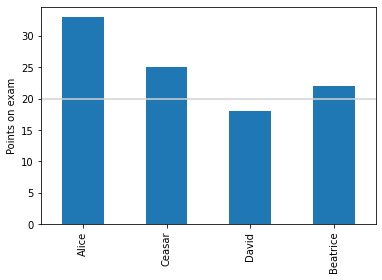
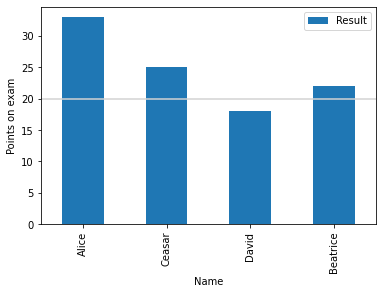
Update documentation

diff --git a/searchindex.js b/searchindex.js
@@ -1,1 +1,1 @@
-Search.setIndex({docnames:["docs/agent","docs/installation","docs/intro","docs/jupyter","docs/math","docs/ode","docs/pandas","docs/project","docs/python","docs/references"],envversion:{"sphinx.domains.c":2,"sphinx.domains.changeset":1,"sphinx.domains.citation":1,"sphinx.domains.cpp":3,"sphinx.domains.index":1,"sphinx.domains.javascript":2,"sphinx.domains.math":2,"sphinx.domains.python":2,"sphinx.domains.rst":2,"sphinx.domains.std":2,"sphinx.ext.intersphinx":1,"sphinxcontrib.bibtex":7,sphinx:56},filenames:["docs/agent.ipynb","docs/installation.md","docs/intro.md","docs/jupyter.ipynb","docs/math.md","docs/ode.ipynb","docs/pandas.ipynb","docs/project.md","docs/python.ipynb","docs/references.md"],objects:{},objnames:{},objtypes:{},terms:{"0000":0,"000000":6,"0001":5,"0002":8,"00233":9,"018":9,"07196":9,"0996":8,"100":[0,5,8],"1000":[5,8],"101":0,"1021":9,"1038":9,"1111":9,"1200":5,"130":5,"1415":8,"145":9,"1457":8,"146":[],"1472":[],"162":8,"1751":9,"1960":4,"1998":9,"1pigvvn":9,"200":5,"2000":5,"2009":9,"2010":9,"2011":9,"2013":9,"2016":9,"2018":9,"20210722":8,"20210802":8,"2022":2,"205":8,"2899":[],"2903865095":[],"2980":[],"3000":5,"3016":[],"3058":[],"3272":[],"3432":0,"3479":[],"350853":6,"3620":[],"3648":[],"365":5,"3671":[],"3736":0,"3952":[],"4122":[],"4179":[],"4200":[],"4224":[],"4232":[],"4488":[],"4744":[],"4760":[],"4840":[],"4968":0,"500":5,"5000":[0,5,8],"500000":6,"510":8,"515":[],"5160":[],"520":[],"5224":[],"536":[],"5376":0,"5489":[],"555":[],"563":9,"5631":[],"572":9,"584":9,"5h8mb6gs32nbvf3w8cyqwrhm0000gn":[],"600":5,"6000":[],"726":[],"7413":[],"7729":9,"7915":9,"800":5,"8068":[],"9190":8,"9999":8,"case":[5,8],"class":[0,4,5,6],"default":[1,5,8],"export":6,"f\u00f6r":7,"final":[0,2,3,5],"float":8,"function":[0,3,5,6],"import":[0,2,3,4,5,6],"int":[0,8],"long":7,"new":[1,7,8],"return":[0,5,8],"short":[5,7,8],"static":5,"super":0,"true":[0,5,6,8],"try":7,"v\u00e4gledn":7,"var":[],"while":[5,7],Axes:8,For:[5,8],Not:8,ODEs:2,One:[2,8],The:[0,1,2,4,5,6,7,8],Their:7,There:[0,4,5,8],These:[0,8],With:5,__init__:[0,5,8],a_list:8,abil:7,abm:[0,2,4],about:8,abov:[5,8],academia:7,access:[2,8],accomplish:[8,9],accord:[5,7,8],accumul:[0,5,8],act:[0,4],action:[0,7],activ:[1,7],adapt:4,add:0,addit:[1,5,6,8],adopt:[2,8],advanc:4,affect:4,after:[0,8],agent:[2,4,7,8],agent_df:0,agent_idx:0,agent_report:0,agent_wealth:0,agentid:0,air:5,alc_with_lowest_bp:8,alcohol:8,algorithm:8,alic:6,align:[4,5,8],alik:7,all:[0,2,4,7,8],allow:[0,1,2,3,5,6],almost:8,alpha:[4,5],alreadi:[7,8],also:[0,3,4,5,6,8],altern:[5,8],alwai:8,amount:[7,8],anaconda:1,analysi:[0,6,8,9],analyt:8,andersen:[7,9],ani:[2,7],anlys:6,anoth:5,appeal:4,appear:[4,5],append:5,applic:[3,4],approach:[2,4,5],approx:5,approxim:[5,7],arang:3,area:[2,8],arg:5,arguabl:2,argument:[5,8],around:[0,4],arrai:5,arrang:8,artist:8,as13:[2,7,9],ascend:6,associ:[5,8],asterisk:1,attribut:[0,8],author:[2,8],auto:8,automat:[6,8],autonom:0,autosc:8,avail:[2,3,5,8],averag:6,axes:5,axhlin:[3,6],axi:8,b_dict:8,back:4,bai98:[4,7,9],bailei:[4,7,9],bar:[6,8],barcontain:8,barh:8,barri:7,barstack:8,base:[1,2,4,7,8],basic:[2,4,5,8],bb1220:2,beatric:6,becom:[2,5],been:8,begin:[0,1,4,5],behav:[7,8],behavior:0,behaviour:4,belong:0,below:[0,3,8],benefit:[6,8],best:2,beta:[4,5],better:[2,5],between:[7,8],big:[0,5],bin:[0,8],biochem:[7,9],biolog:[4,5,7],biologi:[2,9],biologist:7,biotech:9,biotechnolog:[2,4,9],bit:1,blood:7,blueprint:8,bodi:7,boil:8,bone:7,book:[2,7,8],bool:8,bordel:9,both:[0,3,4],bottom:8,bp9701269:9,browser:[1,3],build:[0,4],built:[6,8],bygg:9,c6h11oh:8,c6h5:8,calcul:[0,8],call:[5,7],can:[0,1,3,4,5,6,7,8],cannot:8,canva:2,capit:8,catalyst:7,catalyz:7,categori:0,cb1020:2,cbn11:[4,7,9],ceasar:6,cell:[0,1,7,9],cellmat:0,cellular:7,celsiu:8,center:8,central:5,certain:[5,6],certifi:1,ch2oh:8,ch3:8,ch3oh:8,chanc:8,chang:[3,5],chapter:7,chart:8,checkpoint:3,chemic:[7,8],choh:8,choic:[0,2,5,8,9],choos:2,chosen:8,circ:5,circl:5,clean:6,clear:[4,8],cleft:7,code:[1,2,8],coeffici:[0,4],coher:8,collect:[4,5],collector:0,color:[0,3,6,8],column:[0,6,8],com:9,combin:[3,8],come:[1,3,5],comma:6,command:[1,3],comment:3,common:[7,8],commun:[7,8],compar:[3,8],comparison:[5,8],compart:7,complex:[4,7,8],compon:7,compos:4,compound:7,comput:[0,1,4,5,8,9],compute_gini:0,concern:[5,8],conda:1,conduct:[2,5],conjunct:8,connect:7,consid:5,constant:5,construct:6,constructor:8,contain:[0,1,3,5,7,8],contrast:7,contribut:[2,8],control:6,conveni:[5,8],convent:[3,8],convert:[0,3],copi:3,core:9,cornerston:4,correspond:[5,6],cost:5,could:7,count:[6,8],counterpart:7,cours:[2,5,7],creat:[0,1,2,4,5,8],creation:8,cross:[0,7],csv:6,ctrl:3,cumul:8,current:0,cursor:3,cvijov:[4,7,9],cyclohexanol:8,d2u_dx2:5,d41586:9,dai:5,damp:5,dash:3,data1:8,data2:8,data:9,datacollect:0,datacollector:0,datafram:0,datapoint:8,dataset:8,date:[2,4],dator:9,david:6,death:5,decis:[2,4],decreas:5,deepen:2,def:[0,5,8],defin:[0,5,8],degre:8,delivar:2,delta:[4,5],denot:5,densiti:8,depend:[1,3],depict:5,deriv:[0,3,5],describ:[4,5,6,8],descript:[2,8],design:7,detail:[3,8],determin:[0,7],develop:[7,8],deviat:8,diagon:0,dictionari:8,dictonari:[6,8],did:5,diff:8,differ:[0,2,7,8],differenti:[2,4],difficult:4,diffus:[5,7],dimens:8,dimension:[5,8],direct:8,disciplinari:7,discret:5,discuss:2,diseas:[4,7],displai:[6,8],disposit:7,distinguish:7,distribut:[0,8],divid:[5,8],doan:8,doc:[1,2],document:[2,3],doi:9,doing:[3,5],dot:8,draw:8,drawn:8,drive:2,dropbox:2,dtype:[6,8],due:5,dydt:5,dynam:[4,5],each:[0,2,8],earli:4,eat:7,ecosystem:7,edg:8,edit:[2,3,9],effect:8,effici:8,either:8,element:[3,6,7,8],elementari:3,els:7,empti:[0,8],enabl:[1,5,7,8],encapsul:8,end:[2,4,5,8],engin:[2,5,6,7,8,9],enter:[0,1,3],entiti:0,enumer:[0,8],env:1,environ:[1,4,7],enzym:7,epidemiolog:4,equal:[4,5,6,8],equat:[2,3,4],equip:8,erl:9,error:5,etc:[3,6,8],ethanol:8,euler_step:5,eva:9,even:8,everi:[0,2,5,7,8],everyth:[7,8],evid:5,evolut:5,exact:5,exam:6,examin:6,exampl:[2,5,8],excel:[6,7],except:8,exchang:7,excitatori:7,exclud:8,execut:[1,8],exemplifi:5,exhaust:2,exlibrisgroup:9,exp:[5,8],expect:[7,8],experi:[2,8],explain:[3,4],expos:0,extens:[3,8],extract:0,factor:8,factori:9,fals:[0,8],famili:5,famou:7,far:[2,3],farg:5,fast:8,faster:[7,8],favorit:8,feel:[7,8],few:1,field:4,fig:[3,5],fignam:8,figsiz:[3,5],figur:[3,5],file:[3,6,8],fill:[2,8],filter:8,final_wealth_df:0,find:[0,5,7],first:[0,5,6,7,8],fix:8,flexibl:8,float64:6,focal:2,focu:[2,4],folder:2,follow:[1,3,7,8],forest:4,forg:1,form:[2,3,7,8],format:[2,3,6,8],former:4,formula:8,fourth:5,frac:[0,4,5,8],fraction:8,frame:5,frame_numb:5,framework:0,free:[7,8],friction:5,from:[0,1,2,3,4,5,7,8],funcanim:5,further:[3,4],futur:[2,7,9],gamma:[4,5],gaussian:8,gca:[0,3,5,6,8],gener:[0,2,5,7,8],genrer:7,geometr:8,geometri:8,get:[1,3,5,8],get_agent_vars_datafram:0,get_cell_list_cont:0,get_model_vars_datafram:0,get_neighborhood:0,gini:0,github:9,give:[0,8],give_monei:0,given:[2,5,8],gledn:9,global:0,good:[2,5,7,8],googl:2,govern:0,gradual:5,granular:4,great:8,greater:[5,8],grid:[0,5,8],ground:7,group:[0,2,7],growth:5,guid:7,guidelin:2,half:8,handl:[0,6],harmon:5,has:[0,5,6,7,8],have:[2,3,7,8],head:[0,6],heattransferwal:5,height:[0,8],herod:[2,7,9],heurist:4,hierarch:2,high:8,higher:5,highli:8,hist2d:8,hist:[0,8],histogram:8,histogram_bin_edg:8,histtyp:8,hiv:7,hold:0,horizont:8,host:9,howev:[2,4,5,8],html:1,http:[1,9],human:3,idea:8,ident:8,identifi:5,idxmax:0,ignor:8,iii:2,illustr:[4,5],imagin:8,implement:[0,2,3,5,8],includ:[0,1,3,7,8],include_cent:0,increas:[0,4,5],increment:8,independ:8,index:8,indic:[0,1,4],indispens:8,individu:[0,2,4,8],industri:[4,7,9],infect:7,infecti:4,inform:7,inhibitori:7,initi:5,ink:7,input:8,inspir:[4,7],instanc:[4,8],instanti:0,instead:8,integ:[0,8],integr:[5,8],intel:8,interact:[0,1,4,5,7],interest:7,interfac:[0,3],intermedi:5,interneuron:7,interpret:8,interv:[3,5],introduc:[3,5,7,8],introduct:[4,7,8,9],intuit:[2,8],invest:7,invit:[5,8],involv:5,ipykernel_51278:[],ipykernel_57799:[],ipykernel_57878:[],ipynb:3,isol:8,isopropanol:8,item:8,its:[0,3,5,7,8],itself:7,jake:[8,9],jakevdp:9,jame:9,javascript:0,jeffrei:9,jen:9,json:3,jupyt:[1,8,9],jupyterlab:1,k_1:5,k_2:5,k_3:5,k_4:5,keep:2,kei:[3,4,5,8],kept:8,kernel:8,keyword:8,kind:6,kinet:7,knowhow:7,knowledg:5,known:[5,8],kth:[2,9],kurslitteratur:9,kvalitet:9,kwarg:8,label:[5,8],lambda:5,landscap:0,languag:2,larg:[1,7,8],last:[0,8],latent:7,latest:1,launch:0,ldot:0,lead:7,leader:2,leadership:2,learn:[4,7],least:2,leav:3,left:8,legend:[5,8],len:[0,8],length:8,leq:[0,5],less:[5,8],let:[0,5,8],level:[0,7],librari:8,life:7,lightgrei:6,like:[6,7,8],limit:[2,4,5,6,7],limt:0,line2d:5,line:[1,3,5,6,8],linear:5,lineplot:8,linewidth:[3,8],link:3,linspac:5,linux:[1,8],list:[0,1,2,3,6,8],live:7,load:2,locat:8,log:[2,8],logic:8,loop:8,lotka:[4,5],lotka_volterra:5,lower:8,lowest:8,lowest_bp:8,maco:[1,8],macroscop:4,made:[2,4,5,8],magnitud:8,mai:[3,4,5,7,8],main:4,make:[2,3,4,5,7],makinng:4,mammal:7,manag:[0,1],mani:7,manipul:8,manner:3,mapl:[2,9],marija:9,mark:[1,2],markdown:3,mask:8,match:8,materi:[2,7],math:8,mathbf:5,mathemat:[2,3,5,7,8,9],matlab:[2,9],matmul:8,matplotlib:[0,1,3,5,6,8],matric:8,matrix:8,max:[0,6,8],max_wealth:0,maximum:0,mean:[2,5,6,8],mechan:5,mediat:7,medium:5,meet:2,member:[2,4,5],membership:8,membran:7,mentor:2,merg:[3,6],mesa:[1,8],metabol:7,metal:7,methanol:8,method:[0,2,3,6,8],metric:0,microbi:9,microscop:4,microsoft:[2,6],mid:8,min:[5,6,8],miniconda:1,minim:1,minor:2,minut:2,mixtur:7,mkl:8,mode:3,model:[2,7,8,9],model_df:0,model_report:0,moder:7,modern:4,modifi:1,modul:[0,3,6],modulenotfounderror:[],molecul:7,moneyag:0,moneymodel:0,moor:0,more:[3,4,5,8],most:[2,4,5,6,8],move:[0,9],move_ag:0,movement:7,much:7,mulitpl:8,multi:[2,8],multigrid:0,multipl:[0,1,8],multistep:7,must:8,myenv:1,name:[1,2,4,5,6,8],natur:[4,5,8,9],nbin:8,ndarrai:8,need:[2,5,7,8],neuron:7,neurotransmitt:7,never:8,new_posit:0,newtonian:5,nielsen:9,non:[0,8],none:8,nonliv:7,nontrivi:5,nonzero:0,normal:[7,8],note:8,notebook:[1,5,8,9],nov:[],now:1,num:5,num_ag:0,number:[0,1,4,8],number_el:5,numer:[4,8],numpi:[1,3,5,8],object:[5,6],observ:7,obtain:[2,5],obviou:4,obvious:8,occupi:7,occur:[0,7],och:9,odeint:5,offer:8,offic:2,omnipres:7,onc:7,one:[0,1,2,3,5,8],one_agent_wealth_df:0,onedr:2,ones:[5,8],onli:[1,5,7,8],open:[1,8],openmp:8,opportun:[5,9],optim:8,option:8,orbit:5,order:[0,5,8],ordinari:2,org:9,organ:[0,3,7],orient:5,oscil:5,other:[0,1,3,7,8],our:[0,5,7],out:[7,8],outcom:0,outlier:8,outsid:2,over:[5,8],overal:[0,7],overemphas:8,overleaf:2,packag:1,page:2,panda:[0,8],paragraph:3,paramet:[0,4,5,8],parametr:5,parasit:7,part:2,partial:5,particip:2,particl:[5,7],particular:[3,8],pass:[5,6,8],past:[3,9],patch:8,patches0:8,patches1:8,path_to_fil:6,pdf:[2,8],peer:2,per18:[8,9],per:[2,8],perform:[5,6,8],period:[5,7],perkel:9,permalink:9,permeas:7,person:2,phase:5,phenomena:[2,4,7],phenomenolog:4,phenylmethanol:8,pip:1,place_ag:0,plai:5,platform:8,plot:3,plot_upd:5,plt:[0,3,5,6,8],plu:8,png:8,point:[2,5,6,8],polygon:8,popul:[0,4,5],portabl:2,pos:0,posit:[0,3,5],possibl:[7,8],possible_step:0,postsynapt:7,potenti:[7,8],power:[4,6],powershel:1,ppm:5,practic:[2,5,8],predat:[4,5],predatorpreymodel:5,predeifin:8,predict:4,prei:[4,5],preliminari:2,present:[2,5,8],press:3,presynapt:7,primo:9,principl:2,print:[0,6,8],probabl:8,problem:[7,8],process:[4,7],processor:8,product:[7,8],prog:9,program:[2,3,5],project:[2,8],projektarbet:[7,9],projektledn:9,promin:5,promot:4,prompt:1,propag:5,properti:[5,8],propog:5,proport:5,protein:7,prototyp:8,provid:[3,4,5,7,8],pseudo:8,pyplot:[0,3,5,6,8],python:[0,1,2,3,5,9],qquad:5,quad:5,question:7,quicker:7,quit:5,r_0:4,rais:8,rand:8,random:[0,7,8],randomactiv:0,randomli:[0,2],randrang:0,rang:[0,2,5,8],rate:[5,7],rather:8,ration:2,raw:8,reach:7,reaction:7,read:[6,8],read_excel:6,readabl:[3,8],readi:1,readili:[3,8],readthrough:7,real:7,recent:4,reciev:8,recommend:[1,8],record:[0,2,4],reduc:5,refer:[1,2,4,5,7,8],reflect:2,regener:7,regul:7,regular:0,reilli:9,rel:8,relat:[5,7],releas:7,relev:8,remain:[0,8],rememb:3,replac:5,report:2,repositori:1,repres:[4,5,8],reproduc:8,reproduct:4,requir:[0,5,7,8],reshap:[6,8],respect:[0,4,5],result:[3,5,6,8],retain:7,retriev:1,reveal:[5,8],revers:8,review:[2,4,7],rice:8,rich:2,right:8,righthand:8,risk:4,rk4:5,role:[2,5],ronald:9,routin:8,row:0,rule:[4,7],run:[1,3,5],rwidth:8,sai:6,same:[0,8],satur:7,save:[3,5,8],savefig:8,scalar:[5,8],scale:[4,8],schedul:0,scheme:5,schwenck:[7,9],scienc:[5,8],scientif:1,scientist:9,scipi:[1,5,8],scott:8,script:8,search:8,sec:5,second:[2,5,8,9],section:[0,3],see:[2,4,8],seed:8,seemingli:4,seen:5,select:[2,6,7],self:[0,2,5,8],semant:8,sens:[2,7],separ:[2,7,8],separatp:6,seper:3,sequenc:[0,8],sergio:9,seri:0,serv:[5,7],server:0,set:[2,4,5,8],set_data:5,set_text:5,setp:[0,3,5,6,8],sever:[2,6,8],sh09:[2,7,9],shall:5,shape:8,share:[2,8],sheet1:6,sheet:[2,6],sheet_nam:6,shift:[3,8],shonkwil:[2,7,9],shorter:8,should:[1,2,5,8],show:[0,3,5,6,8],side:8,sight:5,sigma:8,signal:7,significantli:8,similar:7,simpl:8,simplest:7,simul:4,sin:[3,5],singl:[0,4,8],sit:7,skill:[2,7],skillset:7,slide:2,slower:8,slowli:7,small:1,smaller:[5,8],soft:7,softwar:[5,8],solid:5,solubl:7,solut:[2,8],solv:5,some:5,someon:8,sort:[0,6],sort_valu:6,sourc:[1,7,8],space:[0,5,7,8],span:7,specif:[0,7,8],specifi:[4,8],split:3,spread:4,spring:5,springer:9,sqrt:8,stabil:5,stabl:[5,8],stack:8,standard:[6,8],start:[0,1,3,8],state:[5,8],statement:[0,1,8],statist:6,std:[6,8],step:[0,5,8],step_idx:0,stepfil:8,stochast:4,stone:8,store:[5,8],str:8,straighforward:5,straightforward:5,strategi:8,strength:4,string:8,strongli:8,structur:0,student:[2,6,7,9],studentlitteratur:9,studi:[5,7],sturg:8,substrat:7,suggest:3,suit:2,sum:[0,7,8],sum_:0,summar:4,superior:5,support:[1,8],synapt:7,syntax:8,system:[0,1,4,5,7],t_0:5,t_insid:5,t_outsid:5,tab:3,tail:0,take:[2,5,7,8],target:2,task:8,team:[2,8],technic:2,teknik:9,temperatur:[5,7],tempt:8,tend:7,term:[5,8],termin:1,test:8,text:[5,8],than:[5,7,8],thei:[1,5,7],them:[0,2,7],themselv:0,thereaft:5,therefor:2,thermal:5,thi:[0,1,2,3,5,6,7],thick:5,think:7,third:5,those:[4,6,7],thought:6,thread:8,three:[0,2,3,7],thu:[2,5,7],time:[0,5,7,8],time_text:5,tissu:7,titl:[0,2,3,5,7,8],tn_cdi_springer_books_10_1007_978_0_387_70984_0:9,togeth:[5,8],tool:[0,2,6,8],top:8,topic:7,topolog:4,total:[0,8],tour:[8,9],toward:[2,8,9],traceback:[],track:[4,7],tradit:8,train:[2,7],transform:[5,7],transmembran:7,transmiss:7,transport:7,transpos:8,treat:[7,8],treatment:7,tree:4,triangl:8,trigger:7,trivial:5,tupl:8,turn:[3,5],turnov:7,twinx:5,two:[0,2,4,5,8],tyical:8,type:[3,7],typic:[1,4,5,7,8],uncatalyz:7,under:8,underli:[6,8],understand:[0,2],unequ:8,unfil:8,uniqu:3,unique_id:0,unit:0,unless:8,updat:5,upload:2,upon:2,upper:8,uptak:7,url:9,use:[0,2,3,4,5,7,8],used:[0,2,5,7,8],useful:1,user:[2,5,8],uses:8,using:[0,2,3,6,8],usual:[5,8],vai:5,valu:[0,5,6,8],valuabl:7,van16:[8,9],vanderpla:[8,9],variabl:5,variat:5,variou:[4,7],vast:8,vector:8,veloc:5,veri:[2,5,7],versatil:2,version:[1,2],vertic:8,via:[3,8],viru:7,visual:[0,8],volterra:[4,5],w3school:8,wai:[6,8],walk:0,water:7,weak:4,wealth:0,web:[1,3,8],websit:1,weight:8,welcom:2,well:[2,7],what:0,when:[5,8],where:[0,4,5,8],whether:7,which:[0,1,2,4,5,7,8],whirlwind:[8,9],whirlwindtourofpython:9,why:9,wide:[2,5],widespread:2,width:[0,8],window:[1,8],word:[0,8],work:[1,2,4,5,6,8],would:[6,8],wrangl:6,write:5,written:[1,3,4,5,7,8],www:9,x_i:0,xlabel:[0,3,5,8],xlim:[0,3,5,8],xls:6,xtick:0,xticklabel:6,y0_l:5,y_1:5,y_2:5,year:2,yet:2,yield:8,ylabel:[0,3,5,6,8],ylim:[0,3,5,8],you:[1,2,3,6,7,8],your:[0,1,2,3,6,7,8],ytick:0,zero:[5,8],zlib:1},titles:["Agent-based modeling","Software installation","Introduction","Jupyter notebook","Mathematical modeling","Differential equations","Pandas","Project work","Python for this course","References"],titleterms:{"class":8,"function":8,"import":8,ODE:5,ODEs:5,agent:0,analys:6,analysi:5,anim:5,arrai:8,auto:3,base:0,bonu:5,cell:3,code:3,collect:0,commun:2,complet:3,condit:8,content:2,cours:8,creat:6,data:[0,6,8],datafram:6,deliver:2,dictionari:6,differ:5,differenti:5,document:8,equat:5,essenti:3,euler:5,exampl:3,explicit:5,fdm:5,figur:8,finit:5,form:5,from:6,heat:5,help:8,implicit:5,instal:1,introduct:2,iter:8,jupyt:3,keyboard:3,kutta:5,librari:5,manipul:6,materi:5,mathemat:4,mesa:0,method:5,model:[0,4,5],modul:8,motiv:8,necess:8,notebook:3,numer:5,object:8,oper:8,ordinari:5,organ:2,orient:8,panda:6,plot:[0,5,6,8],program:8,project:7,propos:7,python:[6,8],refer:9,result:0,run:0,rung:5,shortcut:3,simul:0,softwar:1,solut:5,solver:5,some:8,spreadsheet:6,store:0,text:3,thi:8,through:5,tip:3,transfer:5,type:8,wall:5,work:7}})
+Search.setIndex({docnames:["docs/agent","docs/installation","docs/intro","docs/jupyter","docs/math","docs/ode","docs/pandas","docs/project","docs/python","docs/references"],envversion:{"sphinx.domains.c":2,"sphinx.domains.changeset":1,"sphinx.domains.citation":1,"sphinx.domains.cpp":3,"sphinx.domains.index":1,"sphinx.domains.javascript":2,"sphinx.domains.math":2,"sphinx.domains.python":2,"sphinx.domains.rst":2,"sphinx.domains.std":2,"sphinx.ext.intersphinx":1,"sphinxcontrib.bibtex":7,sphinx:56},filenames:["docs/agent.ipynb","docs/installation.md","docs/intro.md","docs/jupyter.ipynb","docs/math.md","docs/ode.ipynb","docs/pandas.ipynb","docs/project.md","docs/python.ipynb","docs/references.md"],objects:{},objnames:{},objtypes:{},terms:{"0000":0,"000000":6,"0001":5,"0002":8,"00233":9,"0160":[],"018":9,"07196":9,"0996":8,"100":[0,5,8],"1000":[5,8],"101":0,"1021":9,"1038":9,"1111":9,"1200":5,"130":5,"1331":8,"1415":8,"145":9,"1457":[],"146":[],"1472":[],"162":8,"1751":9,"1960":4,"1998":9,"1pigvvn":9,"200":5,"2000":5,"2009":9,"2010":9,"2011":9,"2013":9,"2016":9,"2018":9,"20210722":8,"20210802":8,"2022":2,"205":8,"2456":0,"2899":[],"2903865095":[],"2980":[],"3000":5,"3016":[],"3058":[],"3272":[],"3318":[],"3432":[],"3479":[],"350853":6,"3620":[],"3648":[],"3649":[],"365":5,"3671":[],"3736":[],"3952":[],"4031":[],"4122":[],"4179":[],"4200":[],"4224":0,"4232":[],"4488":[],"4744":[],"4760":[0,8],"4840":[],"4968":[],"500":5,"5000":[0,5,8],"500000":6,"510":[],"515":[],"5160":[],"520":[],"5224":0,"536":[],"5376":[],"5489":[],"555":[],"563":9,"5631":[],"5682":[],"572":9,"584":9,"5h8mb6gs32nbvf3w8cyqwrhm0000gn":[],"600":5,"6000":[],"715":[],"717":[],"726":[],"733":8,"7413":[],"7729":9,"7915":9,"800":5,"8068":[],"8287":[],"842":[],"9190":[],"9999":8,"case":[5,8],"class":[0,4,5,6],"default":[1,5,8],"export":6,"f\u00f6r":7,"final":[0,2,3,5],"float":8,"function":[0,3,5,6],"import":[0,2,3,4,5,6],"int":[0,8],"long":7,"new":[1,7,8],"return":[0,5,8],"short":[5,7,8],"static":5,"super":0,"true":[0,5,6,8],"try":7,"v\u00e4gledn":7,"var":[],"while":[5,7],Axes:8,For:[5,8],Not:8,ODEs:2,One:[2,8],The:[0,1,2,4,5,6,7,8],Their:7,There:[0,4,5,8],These:[0,8],With:5,__init__:[0,5,8],a_list:8,abil:7,abm:[0,2,4],about:8,abov:[5,8],academia:7,access:[2,8],accomplish:[8,9],accord:[5,7,8],accumul:[0,5,8],act:[0,4],action:[0,7],activ:[1,7],adapt:4,add:0,addit:[1,5,6,8],adopt:[2,8],advanc:4,affect:4,after:[0,8],agent:[2,4,7,8],agent_df:0,agent_idx:0,agent_report:0,agent_wealth:0,agentid:0,air:5,alc_with_lowest_bp:8,alcohol:8,algorithm:8,alic:6,align:[4,5,8],alik:7,all:[0,2,4,7,8],allow:[0,1,2,3,5,6],almost:8,alpha:[4,5],alreadi:[7,8],also:[0,3,4,5,6,8],altern:[5,8],alwai:8,amount:[7,8],anaconda:1,analysi:[0,6,8,9],analyt:8,andersen:[7,9],ani:[2,7],anlys:6,anoth:5,appeal:4,appear:[4,5],append:5,applic:[3,4],approach:[2,4,5],approx:5,approxim:[5,7],arang:3,area:[2,8],arg:5,arguabl:2,argument:[5,8],around:[0,4],arrai:5,arrang:8,artist:8,as13:[2,7,9],ascend:6,associ:[5,8],asterisk:1,attribut:[0,8],author:[2,8],auto:8,automat:[6,8],autonom:0,autosc:8,avail:[2,3,5,8],averag:6,axes:5,axhlin:[3,6],axi:8,b_dict:8,back:4,bai98:[4,7,9],bailei:[4,7,9],bar:[6,8],barcontain:8,barh:8,barri:7,barstack:8,base:[1,2,4,7,8],basic:[2,4,5,8],bb1220:2,beatric:6,becom:[2,5],been:8,begin:[0,1,4,5],behav:[7,8],behavior:0,behaviour:4,belong:0,below:[0,3,8],benefit:[6,8],best:2,beta:[4,5],better:[2,5],between:[7,8],big:[0,5],bin:[0,8],biochem:[7,9],biolog:[4,5,7],biologi:[2,9],biologist:7,biotech:9,biotechnolog:[2,4,9],bit:1,blood:7,blueprint:8,bodi:7,boil:8,bone:7,book:[2,7,8],bool:8,bordel:9,both:[0,3,4],bottom:8,bp9701269:9,browser:[1,3],build:[0,4],built:[6,8],bygg:9,c6h11oh:8,c6h5:8,calcul:[0,8],call:[5,7],can:[0,1,3,4,5,6,7,8],cannot:8,canva:2,capit:8,catalyst:7,catalyz:7,categori:0,cb1020:2,cbn11:[4,7,9],ceasar:6,cell:[0,1,7,9],cellmat:0,cellular:7,celsiu:8,center:8,central:5,certain:[5,6],certifi:1,ch2oh:8,ch3:8,ch3oh:8,chanc:8,chang:[3,5],chapter:7,chart:8,checkpoint:3,chemic:[7,8],choh:8,choic:[0,2,5,8,9],choos:2,chosen:8,circ:5,circl:5,clean:6,clear:[4,8],cleft:7,code:[1,2,8],coeffici:[0,4],coher:8,collect:[4,5],collector:0,color:[0,3,6,8],column:[0,6,8],com:9,combin:[3,8],come:[1,3,5],comma:6,command:[1,3],comment:3,common:[7,8],commun:[7,8],compar:[3,8],comparison:[5,8],compart:7,complex:[4,7,8],compon:7,compos:4,compound:7,comput:[0,1,4,5,8,9],compute_gini:0,concern:[5,8],conda:1,conduct:[2,5],conjunct:8,connect:7,consid:5,constant:5,construct:6,constructor:8,contain:[0,1,3,5,7,8],contrast:7,contribut:[2,8],control:6,conveni:[5,8],convent:[3,8],convert:[0,3],copi:3,core:9,cornerston:4,correspond:[5,6],cost:5,could:7,count:[6,8],counterpart:7,cours:[2,5,7],creat:[0,1,2,4,5,8],creation:8,cross:[0,7],csv:6,ctrl:3,cumul:8,current:0,cursor:3,cvijov:[4,7,9],cyclohexanol:8,d2u_dx2:5,d41586:9,dai:5,damp:5,dash:3,data1:8,data2:8,data:9,datacollect:0,datacollector:0,datafram:0,datapoint:8,dataset:8,date:[2,4],dator:9,david:6,death:5,decis:[2,4],decreas:5,deepen:2,def:[0,5,8],defin:[0,5,8],degre:8,delivar:2,delta:[4,5],denot:5,densiti:8,depend:[1,3],depict:5,deriv:[0,3,5],describ:[4,5,6,8],descript:[2,8],design:7,detail:[3,8],determin:[0,7],develop:[7,8],deviat:8,diagon:0,dictionari:8,dictonari:[6,8],did:5,diff:8,differ:[0,2,7,8],differenti:[2,4],difficult:4,diffus:[5,7],dimens:8,dimension:[5,8],direct:8,disciplinari:7,discret:5,discuss:2,diseas:[4,7],displai:[6,8],disposit:7,distinguish:7,distribut:[0,8],divid:[5,8],doan:8,doc:[1,2],document:[2,3],doi:9,doing:[3,5],dot:8,draw:8,drawn:8,drive:2,dropbox:2,dtype:[6,8],due:5,dydt:5,dynam:[4,5],each:[0,2,8],earli:4,eat:7,ecosystem:7,edg:8,edit:[2,3,9],effect:8,effici:8,either:8,element:[3,6,7,8],elementari:3,els:7,empti:[0,8],enabl:[1,5,7,8],encapsul:8,end:[2,4,5,8],engin:[2,5,6,7,8,9],enter:[0,1,3],entiti:0,enumer:[0,8],env:1,environ:[1,4,7],enzym:7,epidemiolog:4,equal:[4,5,6,8],equat:[2,3,4],equip:8,erl:9,error:5,etc:[3,6,8],ethanol:8,euler_step:5,eva:9,even:8,everi:[0,2,5,7,8],everyth:[7,8],evid:5,evolut:5,exact:5,exam:6,examin:6,exampl:[2,5,8],excel:[6,7],except:8,exchang:7,excitatori:7,exclud:8,execut:[1,8],exemplifi:5,exhaust:2,exlibrisgroup:9,exp:[5,8],expect:[7,8],experi:[2,8],explain:[3,4],expos:0,extens:[3,8],extract:0,factor:8,factori:9,fals:[0,8],famili:5,famou:7,far:[2,3],farg:5,fast:8,faster:[7,8],favorit:8,feel:[7,8],few:1,field:4,fig:[3,5],fignam:8,figsiz:[3,5],figur:[3,5],file:[3,6,8],fill:[2,8],filter:8,final_wealth_df:0,find:[0,5,7],first:[0,5,6,7,8],fix:8,flexibl:8,float64:6,focal:2,focu:[2,4],folder:2,follow:[1,3,7,8],forest:4,forg:1,form:[2,3,7,8],format:[2,3,6,8],former:4,formula:8,fourth:5,frac:[0,4,5,8],fraction:8,frame:5,frame_numb:5,framework:0,free:[7,8],friction:5,from:[0,1,2,3,4,5,7,8],funcanim:5,further:[3,4],futur:[2,7,9],gamma:[4,5],gaussian:8,gca:[0,3,5,6,8],gener:[0,2,5,7,8],genrer:7,geometr:8,geometri:8,get:[1,3,5,8],get_agent_vars_datafram:0,get_cell_list_cont:0,get_model_vars_datafram:0,get_neighborhood:0,gini:0,github:9,give:[0,8],give_monei:0,given:[2,5,8],gledn:9,global:0,good:[2,5,7,8],googl:2,govern:0,gradual:5,granular:4,great:8,greater:[5,8],grid:[0,5,8],ground:7,group:[0,2,7],growth:5,guid:7,guidelin:2,half:8,handl:[0,6],harmon:5,has:[0,5,6,7,8],have:[2,3,7,8],head:[0,6],heattransferwal:5,height:[0,8],herod:[2,7,9],heurist:4,hierarch:2,high:8,higher:5,highli:8,hist2d:8,hist:[0,8],histogram:8,histogram_bin_edg:8,histtyp:8,hiv:7,hold:0,horizont:8,host:9,howev:[2,4,5,8],html:1,http:[1,9],human:3,idea:8,ident:8,identifi:5,idxmax:0,ignor:8,iii:2,illustr:[4,5],imagin:8,implement:[0,2,3,5,8],includ:[0,1,3,7,8],include_cent:0,increas:[0,4,5],increment:8,independ:8,index:8,indic:[0,1,4],indispens:8,individu:[0,2,4,8],industri:[4,7,9],infect:7,infecti:4,inform:7,inhibitori:7,initi:5,ink:7,input:8,inspir:[4,7],instanc:[4,8],instanti:0,instead:8,integ:[0,8],integr:[5,8],intel:8,interact:[0,1,4,5,7],interest:7,interfac:[0,3],intermedi:5,interneuron:7,interpret:8,interv:[3,5],introduc:[3,5,7,8],introduct:[4,7,8,9],intuit:[2,8],invest:7,invit:[5,8],involv:5,ipykernel_51278:[],ipykernel_57799:[],ipykernel_57878:[],ipynb:3,isol:8,isopropanol:8,item:8,its:[0,3,5,7,8],itself:7,jake:[8,9],jakevdp:9,jame:9,javascript:0,jeffrei:9,jen:9,json:3,jupyt:[1,8,9],jupyterlab:1,k_1:5,k_2:5,k_3:5,k_4:5,keep:2,kei:[3,4,5,8],kept:8,kernel:8,keyword:8,kind:6,kinet:7,knowhow:7,knowledg:5,known:[5,8],kth:[2,9],kurslitteratur:9,kvalitet:9,kwarg:8,label:[5,8],lambda:5,landscap:0,languag:2,larg:[1,7,8],last:[0,8],latent:7,latest:1,launch:0,ldot:0,lead:7,leader:2,leadership:2,learn:[4,7],least:2,leav:3,left:8,legend:[5,8],len:[0,8],length:8,leq:[0,5],less:[5,8],let:[0,5,8],level:[0,7],librari:8,life:7,lightgrei:6,like:[6,7,8],limit:[2,4,5,6,7],limt:0,line2d:5,line:[1,3,5,6,8],linear:5,lineplot:8,linewidth:[3,8],link:3,linspac:5,linux:[1,8],list:[0,1,2,3,6,8],live:7,load:2,locat:8,log:[2,8],logic:8,loop:8,lotka:[4,5],lotka_volterra:5,lower:8,lowest:8,lowest_bp:8,maco:[1,8],macroscop:4,made:[2,4,5,8],magnitud:8,mai:[3,4,5,7,8],main:4,make:[2,3,4,5,7],makinng:4,mammal:7,manag:[0,1],mani:7,manipul:8,manner:3,mapl:[2,9],marija:9,mark:[1,2],markdown:3,mask:8,match:8,materi:[2,7],math:8,mathbf:5,mathemat:[2,3,5,7,8,9],matlab:[2,9],matmul:8,matplotlib:[0,1,3,5,6,8],matric:8,matrix:8,max:[0,6,8],max_wealth:0,maximum:0,mean:[2,5,6,8],mechan:5,mediat:7,medium:5,meet:2,member:[2,4,5],membership:8,membran:7,mentor:2,merg:[3,6],mesa:[1,8],metabol:7,metal:7,methanol:8,method:[0,2,3,6,8],metric:0,microbi:9,microscop:4,microsoft:[2,6],mid:8,min:[5,6,8],miniconda:1,minim:1,minor:2,minut:2,mixtur:7,mkl:8,mode:3,model:[2,7,8,9],model_df:0,model_report:0,moder:7,modern:4,modifi:1,modul:[0,3,6],modulenotfounderror:[],molecul:7,moneyag:0,moneymodel:0,moor:0,more:[3,4,5,8],most:[2,4,5,6,8],move:[0,9],move_ag:0,movement:7,much:7,mulitpl:8,multi:[2,8],multigrid:0,multipl:[0,1,8],multistep:7,must:8,myenv:1,name:[1,2,4,5,6,8],natur:[4,5,8,9],nbin:8,ndarrai:8,need:[2,5,7,8],neuron:7,neurotransmitt:7,never:8,new_posit:0,newtonian:5,nielsen:9,non:[0,8],none:8,nonliv:7,nontrivi:5,nonzero:0,normal:[7,8],note:8,notebook:[1,5,8,9],nov:[],now:1,num:5,num_ag:0,number:[0,1,4,8],number_el:5,numer:[4,8],numpi:[1,3,5,8],object:[5,6],observ:7,obtain:[2,5],obviou:4,obvious:8,occupi:7,occur:[0,7],och:9,odeint:5,offer:8,offic:2,omnipres:7,onc:7,one:[0,1,2,3,5,8],one_agent_wealth_df:0,onedr:2,ones:[5,8],onli:[1,5,7,8],open:[1,8],openmp:8,opportun:[5,9],optim:8,option:8,orbit:5,order:[0,5,8],ordinari:2,org:9,organ:[0,3,7],orient:5,oscil:5,other:[0,1,3,7,8],our:[0,5,7],out:[7,8],outcom:0,outlier:8,outsid:2,over:[5,8],overal:[0,7],overemphas:8,overleaf:2,packag:1,page:2,panda:[0,8],paragraph:3,paramet:[0,4,5,8],parametr:5,parasit:7,part:2,partial:5,particip:2,particl:[5,7],particular:[3,8],pass:[5,6,8],past:[3,9],patch:8,patches0:8,patches1:8,path_to_fil:6,pdf:[2,8],peer:2,per18:[8,9],per:[2,8],perform:[5,6,8],period:[5,7],perkel:9,permalink:9,permeas:7,person:2,phase:5,phenomena:[2,4,7],phenomenolog:4,phenylmethanol:8,pip:1,place_ag:0,plai:5,platform:8,plot:3,plot_upd:5,plt:[0,3,5,6,8],plu:8,png:8,point:[2,5,6,8],polygon:8,popul:[0,4,5],portabl:2,pos:0,posit:[0,3,5],possibl:[7,8],possible_step:0,postsynapt:7,potenti:[7,8],power:[4,6],powershel:1,ppm:5,practic:[2,5,8],predat:[4,5],predatorpreymodel:5,predeifin:8,predict:4,prei:[4,5],preliminari:2,present:[2,5,8],press:3,presynapt:7,primo:9,principl:2,print:[0,6,8],probabl:8,problem:[7,8],process:[4,7],processor:8,product:[7,8],prog:9,program:[2,3,5],project:[2,8],projektarbet:[7,9],projektledn:9,promin:5,promot:4,prompt:1,propag:5,properti:[5,8],propog:5,proport:5,protein:7,prototyp:8,provid:[3,4,5,7,8],pseudo:8,pyplot:[0,3,5,6,8],python:[0,1,2,3,5,9],qquad:5,quad:5,question:7,quicker:7,quit:5,r_0:4,rais:8,rand:8,random:[0,7,8],randomactiv:0,randomli:[0,2],randrang:0,rang:[0,2,5,8],rate:[5,7],rather:8,ration:2,raw:8,reach:7,reaction:7,read:[6,8],read_excel:6,readabl:[3,8],readi:1,readili:[3,8],readthrough:7,real:7,recent:4,reciev:8,recommend:[1,8],record:[0,2,4],reduc:5,refer:[1,2,4,5,7,8],reflect:2,regener:7,regul:7,regular:0,reilli:9,rel:8,relat:[5,7],releas:7,relev:8,remain:[0,8],rememb:3,replac:5,report:2,repositori:1,repres:[4,5,8],reproduc:8,reproduct:4,requir:[0,5,7,8],reshap:[6,8],respect:[0,4,5],result:[3,5,6,8],retain:7,retriev:1,reveal:[5,8],revers:8,review:[2,4,7],rice:8,rich:2,right:8,righthand:8,risk:4,rk4:5,role:[2,5],ronald:9,routin:8,row:0,rule:[4,7],run:[1,3,5],rwidth:8,sai:6,same:[0,8],satur:7,save:[3,5,8],savefig:8,scalar:[5,8],scale:[4,8],schedul:0,scheme:5,schwenck:[7,9],scienc:[5,8],scientif:1,scientist:9,scipi:[1,5,8],scott:8,script:8,search:8,sec:5,second:[2,5,8,9],section:[0,3],see:[2,4,8],seed:8,seemingli:4,seen:5,select:[2,6,7],self:[0,2,5,8],semant:8,sens:[2,7],separ:[2,7,8],separatp:6,seper:3,sequenc:[0,8],sergio:9,seri:0,serv:[5,7],server:0,set:[2,4,5,8],set_data:5,set_text:5,setp:[0,3,5,6,8],sever:[2,6,8],sh09:[2,7,9],shall:5,shape:8,share:[2,8],sheet1:6,sheet:[2,6],sheet_nam:6,shift:[3,8],shonkwil:[2,7,9],shorter:8,should:[1,2,5,8],show:[0,3,5,6,8],side:8,sight:5,sigma:8,signal:7,significantli:8,similar:7,simpl:8,simplest:7,simul:4,sin:[3,5],singl:[0,4,8],sit:7,skill:[2,7],skillset:7,slide:2,slower:8,slowli:7,small:1,smaller:[5,8],soft:7,softwar:[5,8],solid:5,solubl:7,solut:[2,8],solv:5,some:5,someon:8,sort:[0,6],sort_valu:6,sourc:[1,7,8],space:[0,5,7,8],span:7,specif:[0,7,8],specifi:[4,8],split:3,spread:4,spring:5,springer:9,sqrt:8,stabil:5,stabl:[5,8],stack:8,standard:[6,8],start:[0,1,3,8],state:[5,8],statement:[0,1,8],statist:6,std:[6,8],step:[0,5,8],step_idx:0,stepfil:8,stochast:4,stone:8,store:[5,8],str:8,straighforward:5,straightforward:5,strategi:8,strength:4,string:8,strongli:8,structur:0,student:[2,6,7,9],studentlitteratur:9,studi:[5,7],sturg:8,substrat:7,suggest:3,suit:2,sum:[0,7,8],sum_:0,summar:4,superior:5,support:[1,8],synapt:7,syntax:8,system:[0,1,4,5,7],t_0:5,t_insid:5,t_outsid:5,tab:3,tail:0,take:[2,5,7,8],target:2,task:8,team:[2,8],technic:2,teknik:9,temperatur:[5,7],tempt:8,tend:7,term:[5,8],termin:1,test:8,text:[5,8],than:[5,7,8],thei:[1,5,7],them:[0,2,7],themselv:0,thereaft:5,therefor:2,thermal:5,thi:[0,1,2,3,5,6,7],thick:5,think:7,third:5,those:[4,6,7],thought:6,thread:8,three:[0,2,3,7],thu:[2,5,7],time:[0,5,7,8],time_text:5,tissu:7,titl:[0,2,3,5,7,8],tn_cdi_springer_books_10_1007_978_0_387_70984_0:9,togeth:[5,8],tool:[0,2,6,8],top:8,topic:7,topolog:4,total:[0,8],tour:[8,9],toward:[2,8,9],traceback:[],track:[4,7],tradit:8,train:[2,7],transform:[5,7],transmembran:7,transmiss:7,transport:7,transpos:8,treat:[7,8],treatment:7,tree:4,triangl:8,trigger:7,trivial:5,tupl:8,turn:[3,5],turnov:7,twinx:5,two:[0,2,4,5,8],tyical:8,type:[3,7],typic:[1,4,5,7,8],uncatalyz:7,under:8,underli:[6,8],understand:[0,2],unequ:8,unfil:8,uniqu:3,unique_id:0,unit:0,unless:8,updat:5,upload:2,upon:2,upper:8,uptak:7,url:9,use:[0,2,3,4,5,7,8],used:[0,2,5,7,8],useful:1,user:[2,5,8],uses:8,using:[0,2,3,6,8],usual:[5,8],vai:5,valu:[0,5,6,8],valuabl:7,van16:[8,9],vanderpla:[8,9],variabl:5,variat:5,variou:[4,7],vast:8,vector:8,veloc:5,veri:[2,5,7],versatil:2,version:[1,2],vertic:8,via:[3,8],viru:7,visual:[0,8],volterra:[4,5],w3school:8,wai:[6,8],walk:0,water:7,weak:4,wealth:0,web:[1,3,8],websit:1,weight:8,welcom:2,well:[2,7],what:0,when:[5,8],where:[0,4,5,8],whether:7,which:[0,1,2,4,5,7,8],whirlwind:[8,9],whirlwindtourofpython:9,why:9,wide:[2,5],widespread:2,width:[0,8],window:[1,8],word:[0,8],work:[1,2,4,5,6,8],would:[6,8],wrangl:6,write:5,written:[1,3,4,5,7,8],www:9,x_i:0,xlabel:[0,3,5,8],xlim:[0,3,5,8],xls:6,xtick:0,xticklabel:6,y0_l:5,y_1:5,y_2:5,year:2,yet:2,yield:8,ylabel:[0,3,5,6,8],ylim:[0,3,5,8],you:[1,2,3,6,7,8],your:[0,1,2,3,6,7,8],ytick:0,zero:[5,8],zlib:1},titles:["Agent-based modeling","Software installation","Introduction","Jupyter notebook","Mathematical modeling","Differential equations","Pandas","Project work","Python for this course","References"],titleterms:{"class":8,"function":8,"import":8,ODE:5,ODEs:5,agent:0,analys:6,analysi:5,anim:5,arrai:8,auto:3,base:0,bonu:5,cell:3,code:3,collect:0,commun:2,complet:3,condit:8,content:2,cours:8,creat:6,data:[0,6,8],datafram:6,deliver:2,dictionari:6,differ:5,differenti:5,document:8,equat:5,essenti:3,euler:5,exampl:3,explicit:5,fdm:5,figur:8,finit:5,form:5,from:6,heat:5,help:8,implicit:5,instal:1,introduct:2,iter:8,jupyt:3,keyboard:3,kutta:5,librari:5,manipul:6,materi:5,mathemat:4,mesa:0,method:5,model:[0,4,5],modul:8,motiv:8,necess:8,notebook:3,numer:5,object:8,oper:8,ordinari:5,organ:2,orient:8,panda:6,plot:[0,5,6,8],program:8,project:7,propos:7,python:[6,8],refer:9,result:0,run:0,rung:5,shortcut:3,simul:0,softwar:1,solut:5,solver:5,some:8,spreadsheet:6,store:0,text:3,thi:8,through:5,tip:3,transfer:5,type:8,wall:5,work:7}})

diff --git a/docs/pandas.html b/docs/pandas.html
@@ -525,7 +525,7 @@ Name: Result, dtype: float64
 <div class="cell_input docutils container">
 <div class="highlight-ipython3 notranslate"><div class="highlight"><pre><span></span><span class="kn">import</span> <span class="nn">matplotlib.pyplot</span> <span class="k">as</span> <span class="nn">plt</span>
 
-<span class="n">df</span><span class="p">[</span><span class="s1">&#39;Result&#39;</span><span class="p">]</span><span class="o">.</span><span class="n">plot</span><span class="p">(</span><span class="n">x</span><span class="o">=</span><span class="s1">&#39;Name&#39;</span><span class="p">,</span> <span class="n">y</span><span class="o">=</span><span class="s1">&#39;Result&#39;</span><span class="p">,</span> <span class="n">kind</span><span class="o">=</span><span class="s1">&#39;bar&#39;</span><span class="p">,</span> <span class="n">ylabel</span><span class="o">=</span><span class="s1">&#39;Points on exam&#39;</span><span class="p">)</span>
+<span class="n">df</span><span class="o">.</span><span class="n">plot</span><span class="p">(</span><span class="n">x</span><span class="o">=</span><span class="s1">&#39;Name&#39;</span><span class="p">,</span> <span class="n">y</span><span class="o">=</span><span class="s1">&#39;Result&#39;</span><span class="p">,</span> <span class="n">kind</span><span class="o">=</span><span class="s1">&#39;bar&#39;</span><span class="p">,</span> <span class="n">ylabel</span><span class="o">=</span><span class="s1">&#39;Points on exam&#39;</span><span class="p">)</span>
 
 <span class="n">plt</span><span class="o">.</span><span class="n">setp</span><span class="p">(</span><span class="n">plt</span><span class="o">.</span><span class="n">gca</span><span class="p">(),</span> <span class="n">xticklabels</span><span class="o">=</span><span class="nb">list</span><span class="p">(</span><span class="n">df</span><span class="p">[</span><span class="s1">&#39;Name&#39;</span><span class="p">]))</span>
 <span class="n">plt</span><span class="o">.</span><span class="n">axhline</span><span class="p">(</span><span class="mi">20</span><span class="p">,</span> <span class="n">color</span><span class="o">=</span><span class="s1">&#39;lightgrey&#39;</span><span class="p">)</span>

diff --git a/docs/agent.html b/docs/agent.html
@@ -480,19 +480,19 @@ N + 1 - \frac{2}{X} \sum_{i=1}^N (N+1-i) x_i
     </tr>
     <tr>
       <th>1</th>
-      <td>0.3432</td>
+      <td>0.2456</td>
     </tr>
     <tr>
       <th>2</th>
-      <td>0.3736</td>
+      <td>0.4224</td>
     </tr>
     <tr>
       <th>3</th>
-      <td>0.4968</td>
+      <td>0.4760</td>
     </tr>
     <tr>
       <th>4</th>
-      <td>0.5376</td>
+      <td>0.5224</td>
     </tr>
   </tbody>
 </table>
@@ -536,15 +536,15 @@ N + 1 - \frac{2}{X} \sum_{i=1}^N (N+1-i) x_i
     <tr>
       <th rowspan="4" valign="top">99</th>
       <th>46</th>
-      <td>3</td>
+      <td>1</td>
     </tr>
     <tr>
       <th>47</th>
-      <td>0</td>
+      <td>1</td>
     </tr>
     <tr>
       <th>48</th>
-      <td>2</td>
+      <td>0</td>
     </tr>
     <tr>
       <th>49</th>
@@ -569,10 +569,10 @@ Step AgentID
      3             1
      4             1
 ...              ...
-99   45            0
-     46            3
-     47            0
-     48            2
+99   45            2
+     46            1
+     47            1
+     48            0
      49            0
 
 [5000 rows x 1 columns]
@@ -635,8 +635,8 @@ Step AgentID
 </div>
 </div>
 <div class="cell_output docutils container">
-<div class="output stream highlight-myst-ansi notranslate"><div class="highlight"><pre><span></span>Agent: 17
-Step: 64
+<div class="output stream highlight-myst-ansi notranslate"><div class="highlight"><pre><span></span>Agent: 40
+Step: 93
 </pre></div>
 </div>
 </div>

diff --git a/docs/python.html b/docs/python.html
@@ -587,10 +587,10 @@ Identity matrix:
 </div>
 </div>
 <div class="cell_output docutils container">
-<div class="output stream highlight-myst-ansi notranslate"><div class="highlight"><pre><span></span>  matmul:     1.9190 (ms)
+<div class="output stream highlight-myst-ansi notranslate"><div class="highlight"><pre><span></span>  matmul:     1.4760 (ms)
 </pre></div>
 </div>
-<div class="output stream highlight-myst-ansi notranslate"><div class="highlight"><pre><span></span>for loop:   510.1457 (ms)
+<div class="output stream highlight-myst-ansi notranslate"><div class="highlight"><pre><span></span>for loop:   733.1331 (ms)
 </pre></div>
 </div>
 </div>
@@ -722,7 +722,7 @@ Standard deviation:  0.0996
 <div class="section" id="python-help-function">
 <h2>Python help function<a class="headerlink" href="#python-help-function" title="Permalink to this headline">¶</a></h2>
 <p>The Python <code class="docutils literal notranslate"><span class="pre">help</span></code> function is used to display the documentation of modules, functions, classes, keywords etc.</p>
-<div class="cell docutils container">
+<div class="cell tag_output_scroll docutils container">
 <div class="cell_input docutils container">
 <div class="highlight-ipython3 notranslate"><div class="highlight"><pre><span></span><span class="n">help</span><span class="p">(</span><span class="n">plt</span><span class="o">.</span><span class="n">hist</span><span class="p">)</span>
 </pre></div>
